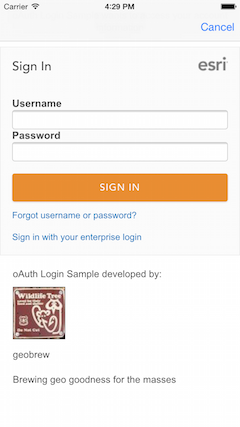
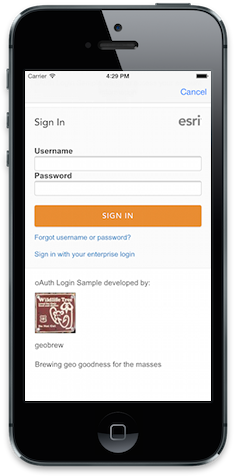
added iPhone frame for screenshots and updated the readme

diff --git a/OAuth Login Sample/README.md b/OAuth Login Sample/README.md
@@ -1,14 +1,14 @@
 ##OAuth Login Sample
 
 This sample demonstrates how you can allow users to sign in to ArcGIS Online using oAuth 2.0. Upon signing in, the sample displays
-a list of web maps that belong to the user. You can tap on any web map to view it.
+the user's profile
 
 
 ###Using the sample
 1. Tap on the <b>Sign in</b> button. This displays a new screen where you can sign in. 
 2. Enter your ArcGIS Online credentials and sign in. 
-3. Upon completion, web maps that belong to you will be displayed. 
-4. You can tap on any web map to view it.
+3. Upon completion, the user's profile is displayed 
+4. You can tap on the Sign Out button to go delete credential and go back to sign in view.
 5. If you don't sign in step 2 above, you can hit <b>Cancel</b> to come back to the main screen. 
 The sample does not allow you to view web maps unless you sign in.
 
@@ -19,7 +19,7 @@ The sample does not allow you to view web maps unless you sign in.
 ###Using the API
 
 The sample uses the class <code>AGSOAuthViewController</code> to handle the sign in process. 
-When a user attempts to sign in,  <code>MainViewController</code> instantiates an <code>AGSOAuthViewController</code> 
+When a user attempts to sign in,  <code>SignInViewController</code> instantiates an <code>AGSOAuthViewController</code> 
 and displays it in a container view controller with a
 Cancel button on the top right corner. When a user signs in successfully, the completion handler of <code>AGSOAuthViewController</code>
 is invoked with an <code>AGSCredential</code> representing that user. The handler uses the credential to connect to a portal and then displays
